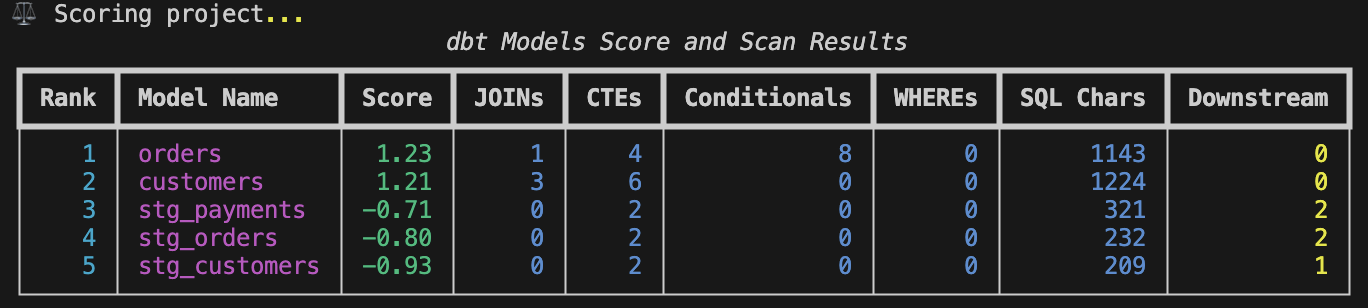
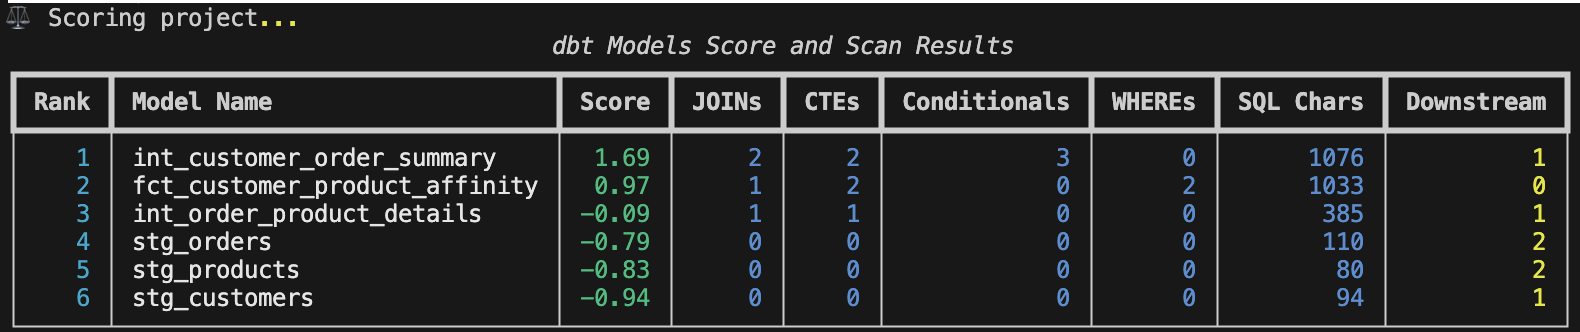
Add result

diff --git a/modaryn/outputs/terminal.py b/modaryn/outputs/terminal.py
@@ -13,7 +13,7 @@ class TerminalOutput(OutputGenerator):
     def generate_report(self, project: DbtProject, problematic_models: Optional[List[DbtModel]] = None, threshold: Optional[float] = None) -> Optional[str]:
         table = Table(title="dbt Models Score and Scan Results")
         table.add_column("Rank", justify="right", style="cyan", no_wrap=True)
-        table.add_column("Model Name", justify="left", style="magenta")
+        table.add_column("Model Name", justify="left", style="white")
         table.add_column("Score", justify="right", style="green")
         table.add_column("JOINs", justify="right", style="blue")
         table.add_column("CTEs", justify="right", style="blue")
@@ -60,13 +60,14 @@ class TerminalOutput(OutputGenerator):
         
         self.console.print(table)
 
-        # Add summary
-        self.console.print("\n--- CI Check Summary ---")
-        if problematic_models:
-            self.console.print(f"[bold red]Status: FAILED[/bold red] - {len(problematic_models)} models exceeded threshold.")
-        else:
-            self.console.print("[bold green]Status: PASSED[/bold green] - All models are within the defined threshold.")
-        self.console.print(f"Total models checked: {len(project.models)}")
         if threshold is not None:
+        # Add summary
+            self.console.print("\n--- CI Check Summary ---")
+            if problematic_models:
+                self.console.print(f"[bold red]Status: FAILED[/bold red] - {len(problematic_models)} models exceeded threshold.")
+            else:
+                self.console.print("[bold green]Status: PASSED[/bold green] - All models are within the defined threshold.")
+            self.console.print(f"Total models checked: {len(project.models)}")
+
             self.console.print(f"Threshold: {threshold:.3f}")
         return None

diff --git a/README.md b/README.md
@@ -27,11 +27,13 @@ modaryn score --project-path . --dialect bigquery --config custom_weights.yml --
 Checks dbt model complexity against a defined Z-score threshold for CI pipelines. Exits with code 1 if any model's score exceeds the threshold, 0 otherwise. This command is designed for automated quality gates in your CI/CD workflows.
 
 ```bash
-modaryn ci-check --project-path . --threshold 1.5 --format terminal
+modaryn ci-check --project-path . --threshold 1.0 --format terminal
 ```
 - `--project-path`: Path to the dbt project directory.
 - `--threshold`: The maximum allowed Z-score for models. CI will fail if any model exceeds this.
 - `--format`: Output format (`terminal`, `markdown`, `html`). Defaults to `terminal`.
+
+![modaryn](./docs/assets/result2.png)
 
 ---
 
